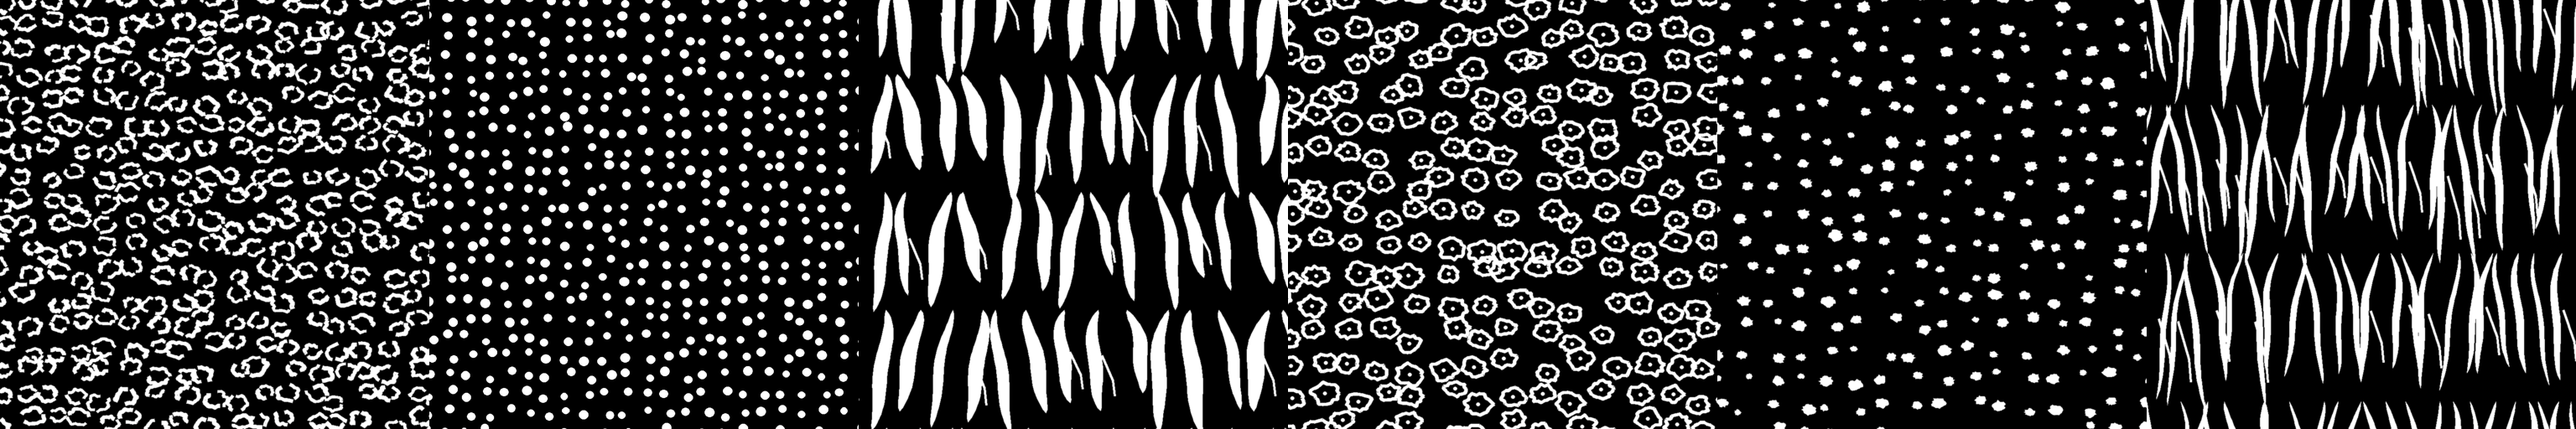
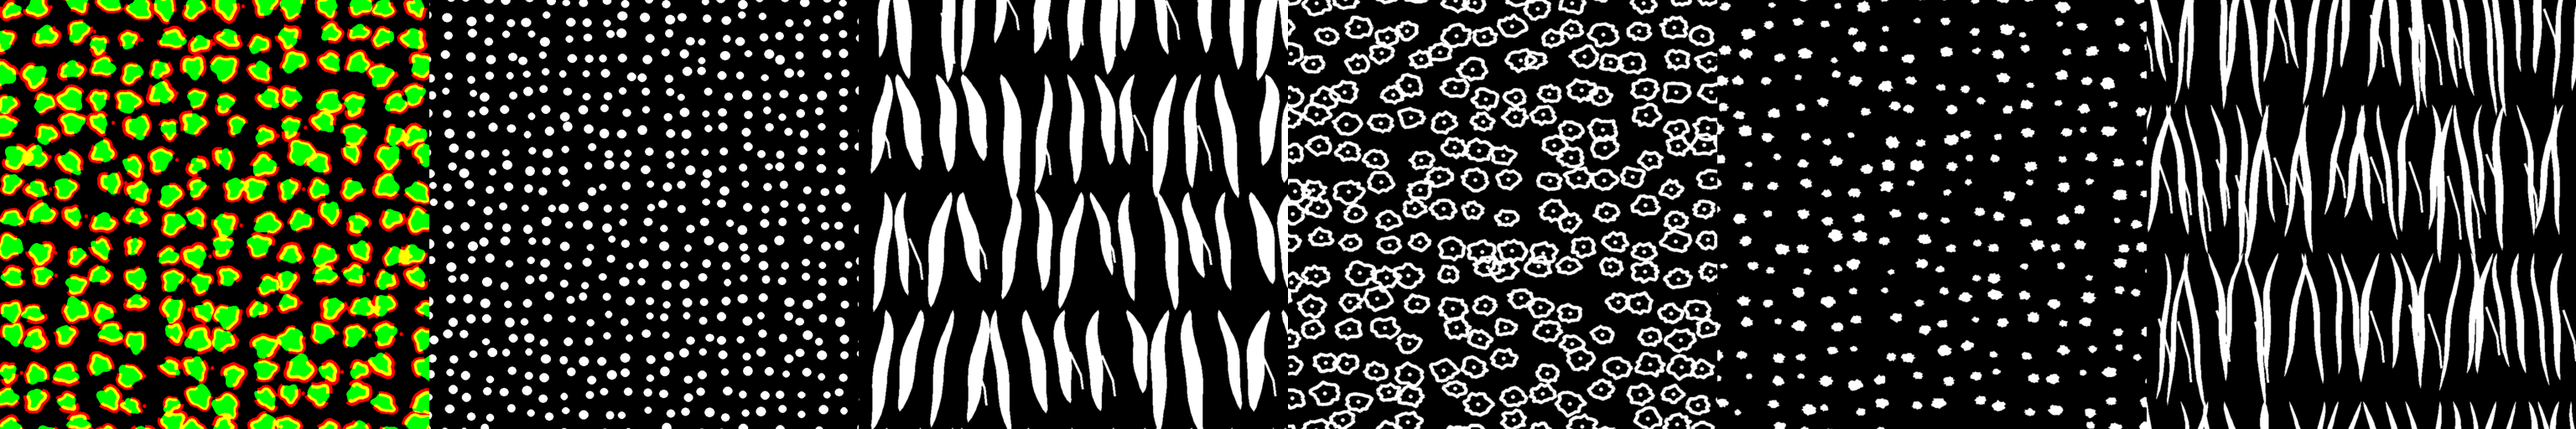
Improve leopard rosettes with warm filled centers across shared rendering

Changed region(s): [[0.0, 0.0, 0.1875, 1.0]]

diff --git a/tools/patterns239/leopard_atlas.py b/tools/patterns239/leopard_atlas.py
@@ -1,0 +1,18 @@
+from PIL import Image,ImageDraw,ImageFilter
+from pathlib import Path
+import random,math
+root=Path(__file__).resolve().parents[2];w,h=936,983
+edge=Image.new('L',(w,h));inner=Image.new('L',(w,h));e=ImageDraw.Draw(edge);c=ImageDraw.Draw(inner);rng=random.Random(23912)
+for yy in range(-50,h+60,69):
+ for xx in range(-50,w+60,69):
+  x=xx+rng.uniform(-17,17);y=yy+rng.uniform(-17,17);radius=rng.uniform(20,28);angle=rng.uniform(0,6.28);ratio=rng.uniform(.7,1.05)
+  pts=[]
+  for k in range(32):
+   a=k/32*math.tau;rr=radius*(1+.13*math.sin(a*3+angle)+.08*math.cos(a*5-angle));dx=math.cos(a)*rr;dy=math.sin(a)*rr*ratio;pts.append((x+dx*math.cos(angle)-dy*math.sin(angle),y+dx*math.sin(angle)+dy*math.cos(angle)))
+  c.polygon(pts,fill=255)
+  # Thick broken irregular rings; alternating single and double openings.
+  start=rng.randrange(32);segments=[(0,24)] if rng.random()<.55 else [(0,12),(16,28)]
+  for lo,hi in segments:
+   seg=[pts[(start+i)%32] for i in range(lo,hi)];e.line(seg,fill=255,width=rng.randint(10,15),joint='curve')
+  if rng.random()<.25:e.ellipse((x+radius+5,y-4,x+radius+12,y+4),fill=255)
+edge=edge.filter(ImageFilter.GaussianBlur(.55));inner=inner.filter(ImageFilter.GaussianBlur(.55));im=Image.merge('RGB',(edge,inner,Image.new('L',(w,h))));atlas=Image.open(root/'art/patterns/wild238.png').convert('RGB');atlas.paste(im.resize((512,512),Image.Resampling.LANCZOS),(0,0));atlas.save(root/'art/patterns/wild238.png')

diff --git a/docs/pelajes238/README.md b/docs/pelajes238/README.md
@@ -29,3 +29,9 @@ Ant confirma que se refería al color de base: Guepardo y Tigre usan Crema, como
 ## Guepardo, 15 noviembre 2026, 19:37
 
 Se precisa la máscara de Guepardo con puntos sólidos circulares simples sobre base Crema, sin anillos ni huecos. Se ajustan tamaño y circularidad para que se lean en la comparación. Solo cambia el segundo segmento del atlas compartido de máscaras; los otros cinco patrones permanecen iguales. Imagen cercana con el animal real en `guepardo-puntos-redondos-comparacion.png`. Cambio preparado en la rama y documentado, sin generar otro APK. El APK publicado 2.7.168 no incluye este ajuste posterior de circularidad/tamaño.
+
+## Leopardo con relleno, 15 noviembre 2026, 19:50
+
+A petición de Ant, rosetas más gruesas, irregulares y abiertas con centro cálido más oscuro. El canal rojo del primer segmento del atlas dibuja el borde y el verde el relleno. El relleno deriva de la base elegida (RGB × 0,76/0,61/0,48), conservando todas las bases y tintas, incluido arcoíris suave. Compartido por retrato, poses del mundo, potrillo y sombrero; no añade genes ni cambia IDs de guardados. Los otros cinco segmentos, incluido Guepardo redondo, se conservan byte por byte.
+
+`leopardo-relleno-comparacion239.png` compara el retrato anterior Crema con el ajuste Dorado y el fotograma enviado por Ant. Dorado es solo un ejemplo para aproximar el vídeo, no sustituye automáticamente la base de caballos guardados ni fuerza una paleta. No se reproduce la textura de purpurina. Cambio local en rama, sin APK ni publicación. El APK 2.7.168 no incluye este ajuste.
